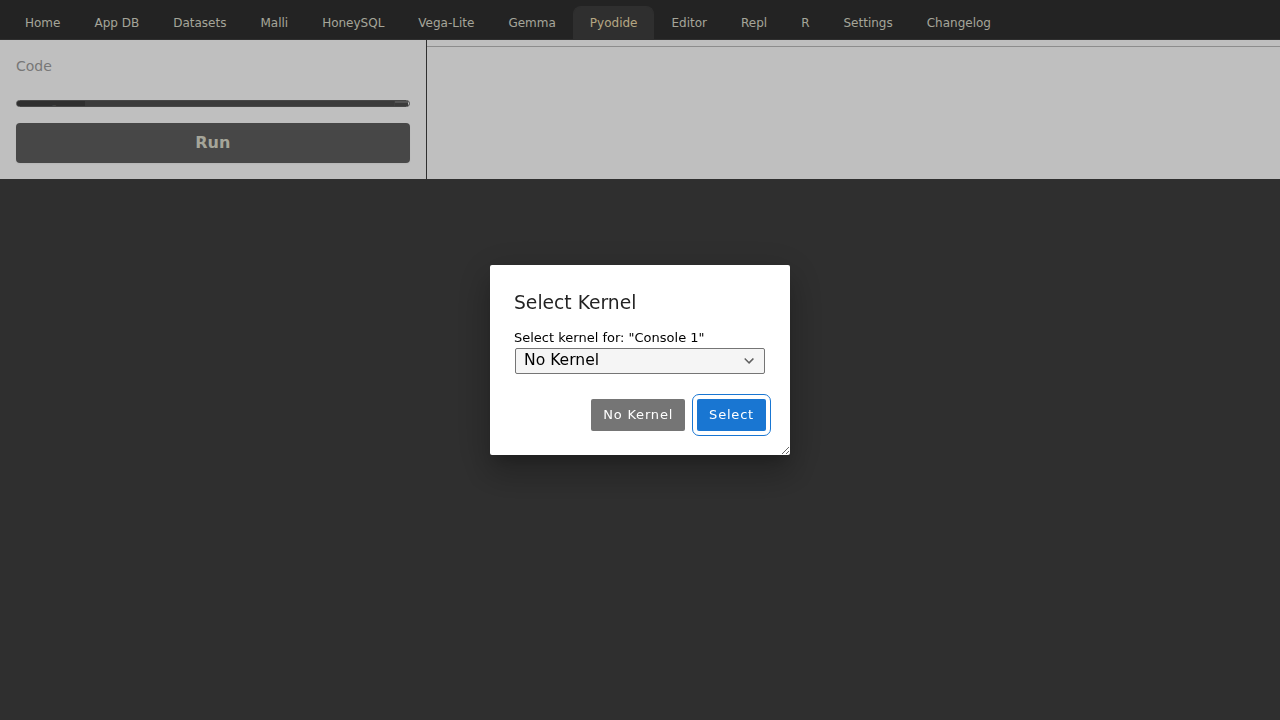
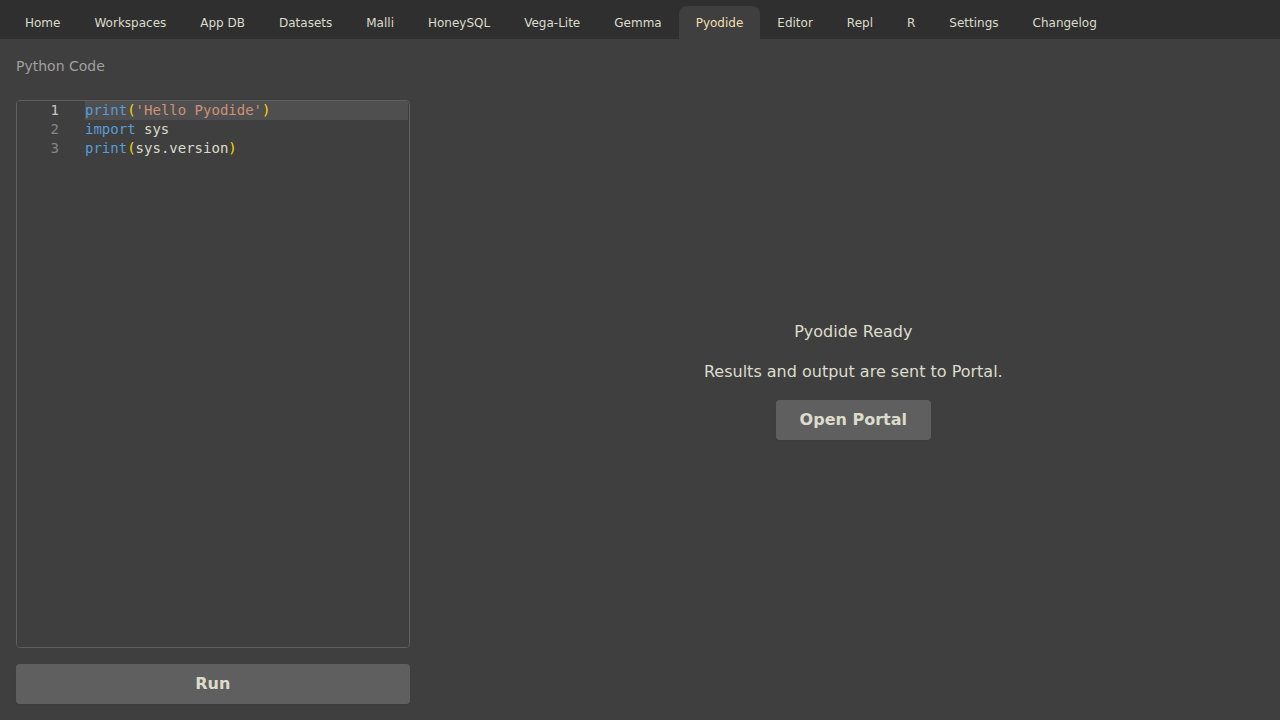
Refactor Pyodide/REPL views to use Portal and clean deps

Changed region(s): [[0.0, 0.0, 1.0, 0.275], [0.375, 0.3667, 0.7812, 0.6722], [0.0, 0.9167, 0.3438, 0.9778]]

diff --git a/webpack.config.js b/webpack.config.js
@@ -1,5 +1,6 @@
 const path = require('path');
 const webpack = require('webpack');
+const { PyodidePlugin } = require("@pyodide/webpack-plugin");
 
 const commonConfig = {
   mode: 'development',
@@ -38,6 +39,7 @@ const commonConfig = {
     new webpack.ProvidePlugin({
       process: 'process/browser',
     }),
+    new PyodidePlugin(),
   ],
   module: {
     rules: [

diff --git a/verify_app_db.py b/verify_app_db.py
@@ -1,36 +1,81 @@
+from playwright.sync_api import sync_playwright
 import time
-from playwright.sync_api import sync_playwright, expect
 
-def run(playwright):
-    browser = playwright.chromium.launch(headless=True)
-    context = browser.new_context()
-    page = context.new_page()
-
+def verify(page):
+    # Pyodide
+    print("Checking Pyodide...")
+    page.goto("http://localhost:8080/#/pyodide")
     try:
-        # Navigate to App DB
-        page.goto("http://localhost:8000/#/app-db")
+        page.wait_for_selector("text=Python Code", timeout=10000)
+        # Check for "Open Portal" button
+        # It might require loading first?
+        # My code: (not ready?) -> "Load Python" button.
+        # :else -> "Pyodide Ready", "Open Portal".
 
-        # Wait for the page to load
-        page.wait_for_selector("h2:has-text('App DB Editor')")
+        # Check for Load button
+        load_btn = page.get_by_role("button", name="Load Python")
+        if load_btn.is_visible():
+            print("Pyodide: Loading runtime...")
+            load_btn.click()
+            page.wait_for_selector("text=Pyodide Ready", timeout=30000)
 
-        # Add a watch path
-        page.fill("input[placeholder*='Enter path']", "[:platform]")
-        page.click("button:has-text('Watch Path')")
-
-        # Wait for the path viewer
-        # It should have the path string "[:platform]"
-        page.wait_for_selector("h4:has-text('[:platform]')")
-
-        # Wait a bit for layout to settle and editor to load
-        time.sleep(5)
-
-        # Take screenshot
-        page.screenshot(path="verification.png")
+        portal_btn = page.get_by_role("button", name="Open Portal")
+        if portal_btn.is_visible():
+            print("Pyodide: Open Portal button found.")
+        else:
+            print("Pyodide: Open Portal button NOT found.")
     except Exception as e:
-        print(f"Error: {e}")
-        page.screenshot(path="error.png")
-    finally:
-        browser.close()
+        print(f"Pyodide check failed: {e}")
 
-with sync_playwright() as playwright:
-    run(playwright)
+    page.screenshot(path="verification_pyodide.png")
+
+    # Repl
+    print("Checking REPL...")
+    page.goto("http://localhost:8080/#/repl")
+    try:
+        # Might need to add instance if empty
+        add_btn = page.get_by_role("button", name="Add REPL")
+        if add_btn.is_visible():
+            add_btn.click()
+            page.wait_for_selector("text=Clojure Code", timeout=5000)
+            portal_btn_repl = page.get_by_role("button", name="Open Portal")
+            if portal_btn_repl.is_visible():
+                print("REPL: Open Portal button found.")
+            else:
+                print("REPL: Open Portal button NOT found.")
+    except Exception as e:
+        print(f"REPL check failed: {e}")
+
+    page.screenshot(path="verification_repl.png")
+
+    # R Repl
+    print("Checking R REPL...")
+    page.goto("http://localhost:8080/#/r-repl")
+    try:
+        page.wait_for_selector("text=Code", timeout=10000) # "Code" label
+        # "Load R Environment" button might be visible first
+        load_btn = page.get_by_role("button", name="Load R Environment")
+        if load_btn.is_visible():
+            print("R REPL: Loading runtime...")
+            load_btn.click()
+            # Wait for "WebR Ready"
+            page.wait_for_selector("text=WebR Ready", timeout=60000)
+            print("R REPL: Loaded.")
+
+        # Check for Open Portal button
+        portal_btn_r = page.get_by_role("button", name="Open Portal")
+        if portal_btn_r.is_visible():
+            print("R REPL: Open Portal button found.")
+        else:
+            print("R REPL: Open Portal button NOT found.")
+    except Exception as e:
+        print(f"R REPL check failed: {e}")
+
+    page.screenshot(path="verification_r_repl.png")
+
+if __name__ == "__main__":
+    with sync_playwright() as p:
+        browser = p.chromium.launch(headless=True)
+        page = browser.new_page()
+        verify(page)
+        browser.close()
